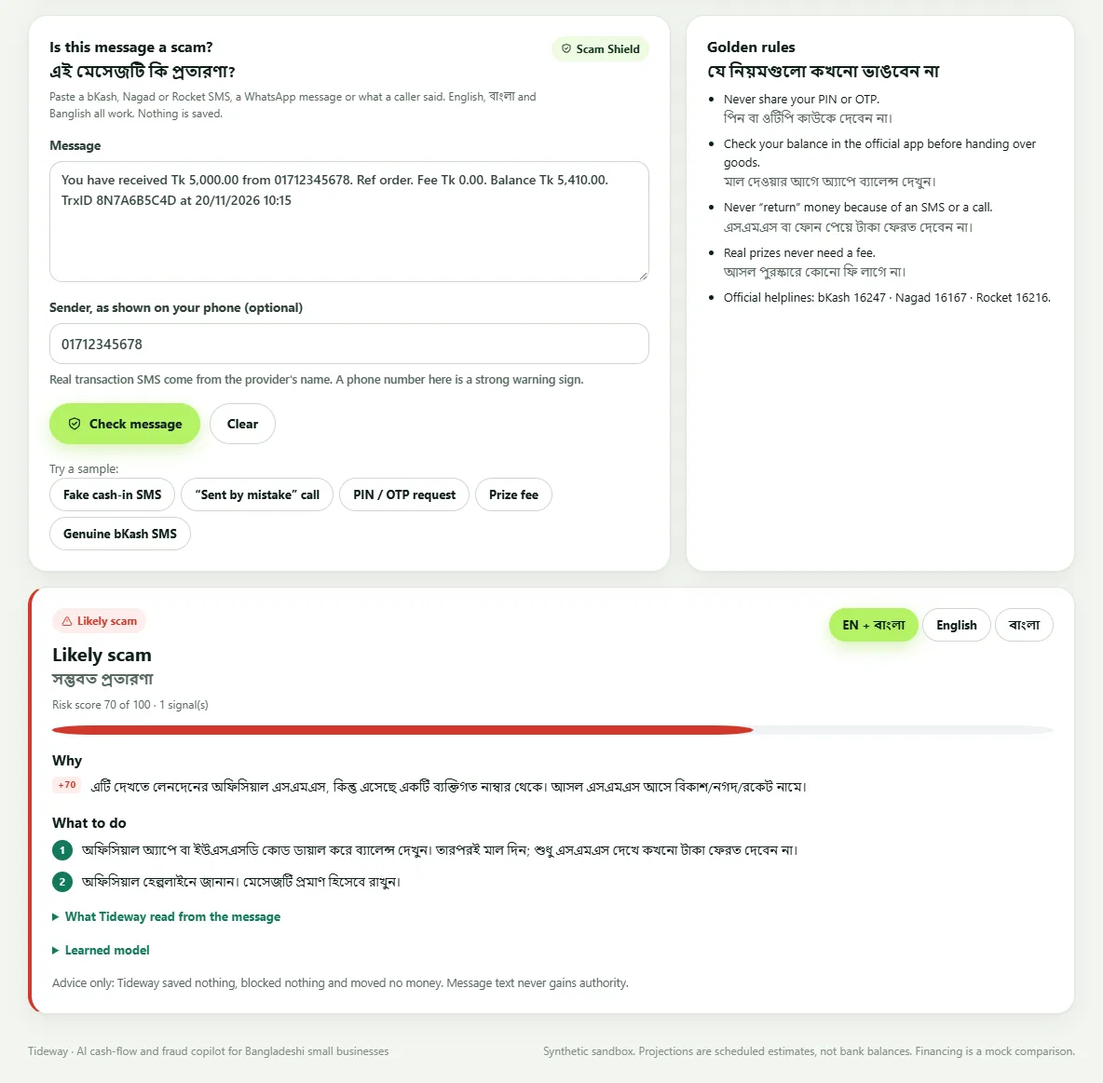
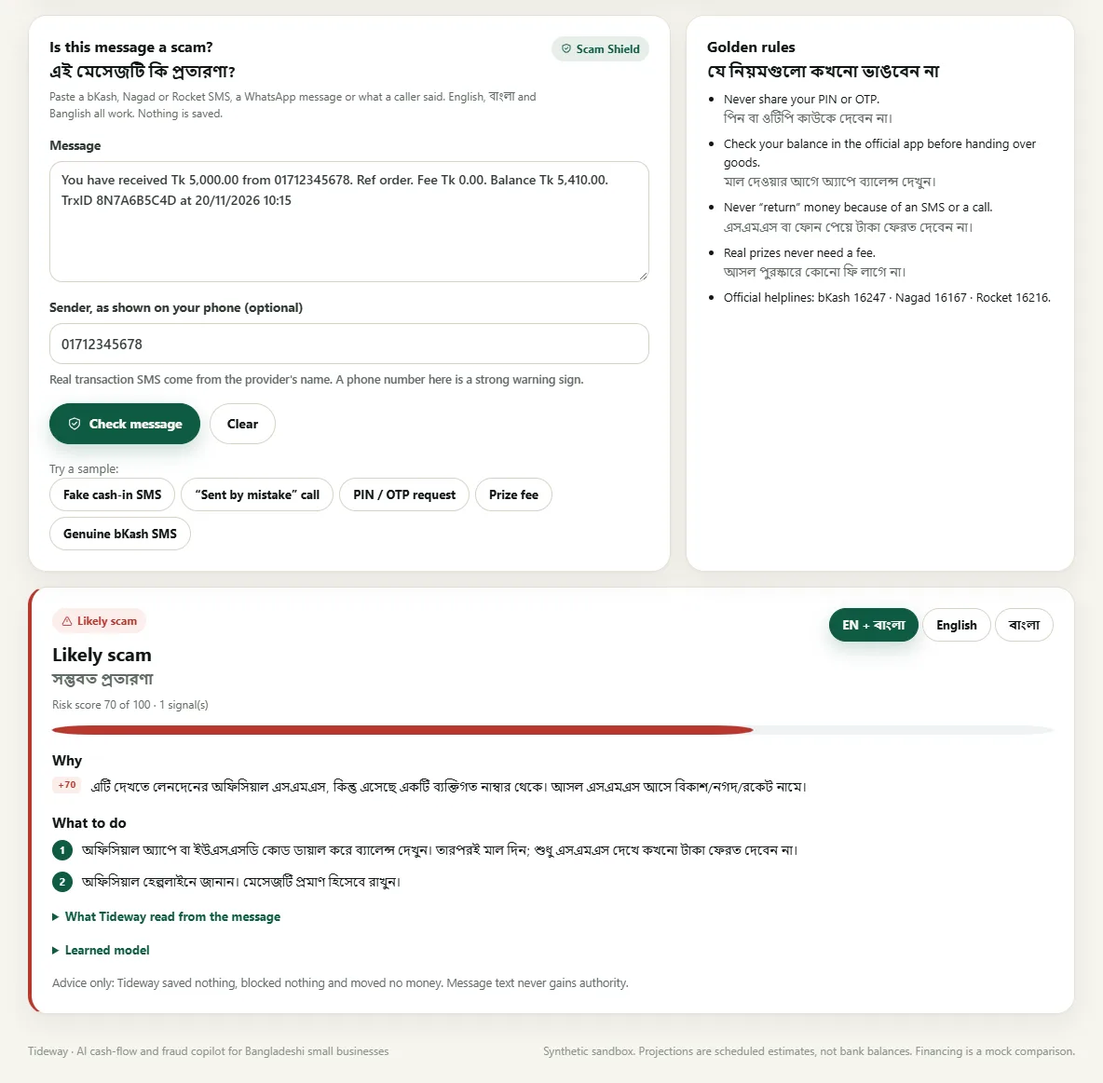
Premium "Emerald & Champagne" palette
Obsidian-emerald base, champagne-gold accents used sparingly, emerald
primary buttons on light pages and gold buttons on dark panels, warm
ivory canvas, muted status colours (all text pairs WCAG AA), refined
sidebar and tab bar, hero illustration background recoloured to match,
and refreshed README screenshots.

diff --git a/web/styles.css b/web/styles.css
@@ -543,8 +543,8 @@ li + li { margin-top: 4px; }
   --radius: 20px;
   --shadow: 0 1px 2px rgba(10, 32, 22, .05), 0 8px 24px rgba(10, 32, 22, .06);
   --shadow-lift: 0 2px 6px rgba(10, 32, 22, .08), 0 18px 40px rgba(10, 32, 22, .12);
-  --glow: 0 0 0 1px rgba(180, 242, 100, .35), 0 12px 40px rgba(180, 242, 100, .25);
-  --aurora: radial-gradient(60% 80% at 12% 0%, rgba(180, 242, 100, .30) 0%, transparent 60%),
+  --glow: 0 0 0 1px rgba(217, 188, 130, .35), 0 12px 40px rgba(217, 188, 130, .25);
+  --aurora: radial-gradient(60% 80% at 12% 0%, rgba(217, 188, 130, .30) 0%, transparent 60%),
             radial-gradient(50% 70% at 88% 10%, rgba(61, 214, 163, .28) 0%, transparent 62%),
             radial-gradient(70% 60% at 50% 120%, rgba(19, 121, 91, .45) 0%, transparent 70%),
             linear-gradient(160deg, #0a2016 0%, #06140d 100%);
@@ -569,7 +569,7 @@ h1 { font-size: 26px; }
 h2 { font-size: 20px; }
 h3 { font-size: 16px; font-weight: 650; }
 code, pre, .mono { font-family: var(--mono); }
-:focus-visible { outline: 3px solid #7cc93a; outline-offset: 2px; }
+:focus-visible { outline: 3px solid #c9a45f; outline-offset: 2px; }
 .eyebrow { color: var(--muted); font-size: 11px; font-weight: 700; letter-spacing: .9px; text-transform: uppercase; }
 .text-link, details summary { color: var(--teal); }
 details summary { font-size: 13px; }
@@ -582,8 +582,8 @@ details summary { font-size: 13px; }
 .button { min-height: 44px; padding: 10px 18px; border: 1px solid transparent; border-radius: 999px; font-size: 14px; font-weight: 700;
   transition: background-color var(--dur-2), border-color var(--dur-2), box-shadow var(--dur-2), translate var(--dur-1) var(--ease-out), color var(--dur-2); }
 .button:active:not(:disabled) { translate: 0 1px; }
-.button.primary { color: var(--forest-900); background: var(--lime); border-color: var(--lime); box-shadow: 0 6px 18px rgba(143, 214, 58, .35); }
-.button.primary:hover:not(:disabled) { background: var(--lime-2); border-color: var(--lime-2); box-shadow: 0 8px 24px rgba(143, 214, 58, .45); translate: 0 -1px; }
+.button.primary { color: var(--forest-900); background: var(--lime); border-color: var(--lime); box-shadow: 0 6px 18px rgba(14, 90, 67, .35); }
+.button.primary:hover:not(:disabled) { background: var(--lime-2); border-color: var(--lime-2); box-shadow: 0 8px 24px rgba(14, 90, 67, .45); translate: 0 -1px; }
 .button.teal { color: #fff; background: var(--forest-800); border-color: var(--forest-800); }
 .button.teal:hover:not(:disabled) { background: var(--forest-700); }
 .button.danger { color: #fff; background: var(--storm); border-color: var(--storm); }
@@ -600,17 +600,17 @@ details summary { font-size: 13px; }
   min-height: 44px; border: 1px solid var(--line-2); border-radius: 14px; background: #fff; font-size: 15px; transition: border-color var(--dur-2), box-shadow var(--dur-2); }
 .field textarea { font-family: var(--body); font-size: 14px; min-height: 130px; }
 .field input:focus, .field select:focus, .field textarea:focus, .control-field input:focus, .control-field select:focus, .search:focus, .chat-form input:focus {
-  outline: none; border-color: var(--forest-700); box-shadow: 0 0 0 4px rgba(180, 242, 100, .35); }
+  outline: none; border-color: var(--forest-700); box-shadow: 0 0 0 4px rgba(217, 188, 130, .35); }
 .field [aria-invalid="true"] { border-color: var(--storm); }
 .control-field { color: var(--muted); font-size: 11px; letter-spacing: .4px; }
 
 /* shell: deep forest sidebar with an aurora glow, light workspace for reading numbers */
 .shell { background: linear-gradient(90deg, var(--forest-950) 0 256px, var(--canvas) 256px); }
-.shell > main { min-height: 100vh; background: radial-gradient(70% 40% at 100% 0%, rgba(180, 242, 100, .12), transparent 70%), var(--canvas); }
-.sidebar { width: 256px; padding: 20px 14px 16px; color: #cfe3d6; background: radial-gradient(90% 40% at 0% 0%, rgba(180, 242, 100, .16), transparent 70%), radial-gradient(80% 30% at 100% 100%, rgba(61, 214, 163, .14), transparent 70%), var(--forest-950); }
+.shell > main { min-height: 100vh; background: radial-gradient(70% 40% at 100% 0%, rgba(217, 188, 130, .12), transparent 70%), var(--canvas); }
+.sidebar { width: 256px; padding: 20px 14px 16px; color: #cfe3d6; background: radial-gradient(90% 40% at 0% 0%, rgba(217, 188, 130, .16), transparent 70%), radial-gradient(80% 30% at 100% 100%, rgba(61, 214, 163, .14), transparent 70%), var(--forest-950); }
 main { margin-left: 256px; }
 .brand { font-family: var(--display); font-size: 21px; font-weight: 700; margin: 2px 8px 18px; }
-.brand-mark { color: var(--forest-900); background: var(--grad); border-radius: 12px; box-shadow: 0 6px 18px rgba(180, 242, 100, .35); }
+.brand-mark { color: var(--forest-900); background: var(--grad); border-radius: 12px; box-shadow: 0 6px 18px rgba(217, 188, 130, .35); }
 .business-picker { color: #93b09f; font-size: 11px; letter-spacing: .6px; }
 .business-picker select { height: 44px; border: 1px solid rgba(255, 255, 255, .14); border-radius: 14px; background: rgba(255, 255, 255, .06); font-size: 14px; }
 nav { gap: 2px; }
@@ -620,7 +620,7 @@ nav { gap: 2px; }
 .nav-item .nav-text { display: grid; line-height: 1.25; }
 .nav-item .nav-sub { color: #86a594; font-size: 11.5px; font-weight: 500; }
 .nav-item:hover { color: #fff; background: rgba(255, 255, 255, .06); }
-.nav-item.active { color: var(--forest-900); background: var(--lime); box-shadow: 0 8px 22px rgba(180, 242, 100, .25); }
+.nav-item.active { color: var(--forest-900); background: var(--lime); box-shadow: 0 8px 22px rgba(217, 188, 130, .25); }
 .nav-item.active .nav-sub { color: var(--forest-700); }
 .nav-badge { color: var(--forest-900); background: var(--lime); }
 .nav-item.active .nav-badge { color: var(--lime); background: var(--forest-900); }
@@ -631,14 +631,14 @@ nav { gap: 2px; }
 .nav-more[open] > summary::after { content: "–"; }
 .nav-more > summary:hover { color: #fff; background: rgba(255, 255, 255, .06); }
 .agent-state, .operator-card { border: 1px solid rgba(255, 255, 255, .1); border-radius: 14px; background: rgba(255, 255, 255, .05); }
-.agent-state .dot { background: var(--lime); box-shadow: 0 0 0 4px rgba(180, 242, 100, .2); }
+.agent-state .dot { background: var(--lime); box-shadow: 0 0 0 4px rgba(217, 188, 130, .2); }
 .operator-card .avatar { color: var(--forest-900); background: var(--lime); }
 .operator-card .icon-button { border-color: rgba(255, 255, 255, .2); color: #d7e8dd; background: transparent; }
 .sandbox-note { color: #7e9a8a; font-size: 11px; }
 .topbar { margin: 0; padding: 16px 30px; border: 0; border-bottom: 1px solid var(--line); border-radius: 0; background: rgba(255, 255, 255, .82); backdrop-filter: saturate(1.4) blur(12px); position: sticky; top: 0; z-index: 5; }
 .title-block h1 { font-size: 24px; }
 .title-block .eyebrow { font-family: var(--body); font-size: 12.5px; font-weight: 600; letter-spacing: 0; text-transform: none; color: var(--muted); }
-.lang-toggle { min-width: 96px; color: var(--forest-900) !important; background: var(--lime-soft) !important; border-color: #cfe9a9 !important; }
+.lang-toggle { min-width: 96px; color: var(--forest-900) !important; background: var(--lime-soft) !important; border-color: #e7dcc0 !important; }
 .view { padding: 24px 30px 12px; }
 .footer { color: var(--faint); font-size: 12px; }
 .error-banner { border-radius: 14px; }
@@ -647,7 +647,7 @@ nav { gap: 2px; }
 .card, .metric, .bundle, .switch-card, .quick-start { border: 1px solid var(--line); border-radius: var(--radius); box-shadow: var(--shadow); }
 .card, .metric, .bundle, .quick-start { background: #fff; }
 .card { padding: 22px; }
-.bundle.recommended { border-color: #a9dc72; box-shadow: 0 0 0 3px rgba(180, 242, 100, .35), var(--shadow); }
+.bundle.recommended { border-color: #d9c494; box-shadow: 0 0 0 3px rgba(217, 188, 130, .35), var(--shadow); }
 .bundle-head { border-bottom: 1px solid var(--line); }
 .kv div, .compare div, .status-strip, .scorecard div, .onboard-steps li, .approve-summary .line { background: #f5f8f2; }
 .action-card, .draft, .result-card, .member-list li { border: 1px solid var(--line); border-radius: 16px; }
@@ -663,7 +663,7 @@ td { font-size: 14px; }
 tbody tr { transition: background-color var(--dur-2); }
 tbody tr:hover td { background: #f6faf1; }
 .quick-start-steps li { border: 1px solid var(--line); border-radius: 16px; }
-.quick-start-steps li.current { border-color: #a9dc72; background: var(--lime-soft); }
+.quick-start-steps li.current { border-color: #d9c494; background: var(--lime-soft); }
 .quick-start-number { color: var(--forest-900); background: var(--lime); }
 .switch-card { background: var(--clear-soft); }
 .switch-card.paused { background: var(--storm-soft); }
@@ -687,7 +687,7 @@ tbody tr:hover td { background: #f6faf1; }
 .chat-log .agent { background: #fff; border: 1px solid var(--line); box-shadow: var(--shadow); border-bottom-left-radius: 6px; }
 .chat-log .user { color: #fff; background: var(--forest-800); border-bottom-right-radius: 6px; }
 .chip { min-height: 36px; border: 1px solid var(--line-2); border-radius: 999px; background: #fff; font-weight: 600; transition: background-color var(--dur-2), border-color var(--dur-2); }
-.chip:hover { color: var(--forest-900); background: var(--lime-soft); border-color: #a9dc72; }
+.chip:hover { color: var(--forest-900); background: var(--lime-soft); border-color: #d9c494; }
 .slider-row input[type="range"] { accent-color: var(--teal); }
 
 /* dialogs and toast */
@@ -762,7 +762,7 @@ main.view-enter .chart .fan { animation: tw-fade .6s var(--ease-out) .2s backwar
   padding: clamp(110px, 12vw, 150px) clamp(18px, 5vw, 72px) clamp(56px, 7vw, 96px); color: #fff; background: var(--aurora); background-size: 140% 140%, 140% 140%, 140% 140%, 100% 100%; animation: tw-aurora 18s ease-in-out infinite; }
 .hero::after { content: ""; position: absolute; inset: 0; pointer-events: none; background-image: linear-gradient(rgba(255, 255, 255, .045) 1px, transparent 1px), linear-gradient(90deg, rgba(255, 255, 255, .045) 1px, transparent 1px); background-size: 56px 56px; mask-image: radial-gradient(70% 70% at 50% 40%, #000 30%, transparent 80%); }
 .hero > * { position: relative; z-index: 1; }
-.hero .eyebrow.light { display: inline-flex; align-items: center; gap: 8px; margin-bottom: 20px; padding: 7px 14px; border: 1px solid rgba(180, 242, 100, .4); border-radius: 999px; color: var(--lime); background: rgba(180, 242, 100, .08); font-size: 12.5px; letter-spacing: .3px; text-transform: none; }
+.hero .eyebrow.light { display: inline-flex; align-items: center; gap: 8px; margin-bottom: 20px; padding: 7px 14px; border: 1px solid rgba(217, 188, 130, .4); border-radius: 999px; color: var(--lime); background: rgba(217, 188, 130, .08); font-size: 12.5px; letter-spacing: .3px; text-transform: none; }
 .hero h1 { max-width: 14ch; color: #fff; font-family: var(--hero-display); font-size: clamp(38px, 5.4vw, 74px); font-weight: 800; letter-spacing: -.035em; line-height: 1.02; }
 .sticker { display: inline-block; color: transparent; background: var(--grad); -webkit-background-clip: text; background-clip: text; }
 .hero-sub { max-width: 46ch; margin-top: 22px; color: rgba(236, 248, 240, .82); font-size: clamp(16px, 1.4vw, 19px); }
@@ -771,7 +771,7 @@ main.view-enter .chart .fan { animation: tw-fade .6s var(--ease-out) .2s backwar
 .hero-ctas .button.light { color: #fff; background: rgba(255, 255, 255, .08); border-color: rgba(255, 255, 255, .3); }
 .hero-ctas .button.light:hover:not(:disabled) { background: rgba(255, 255, 255, .16); border-color: rgba(255, 255, 255, .5); }
 .hero-art { position: relative; margin: 0; }
-.hero-art::before { content: ""; position: absolute; inset: 8% 6%; border-radius: 50%; background: radial-gradient(circle, rgba(180, 242, 100, .45), transparent 65%); filter: blur(30px); }
+.hero-art::before { content: ""; position: absolute; inset: 8% 6%; border-radius: 50%; background: radial-gradient(circle, rgba(217, 188, 130, .45), transparent 65%); filter: blur(30px); }
 .hero-art img { position: relative; display: block; width: 100%; height: auto; border: 1px solid rgba(255, 255, 255, .18); border-radius: 32px; background: rgba(255, 255, 255, .06); box-shadow: 0 40px 90px rgba(0, 0, 0, .45); animation: tw-float 8s ease-in-out infinite; }
 .landing .hero-copy > * { animation: tw-rise .8s var(--ease-out) both; }
 .landing .hero-copy > :nth-child(2) { animation-delay: 80ms; }
@@ -790,7 +790,7 @@ main.view-enter .chart .fan { animation: tw-fade .6s var(--ease-out) .2s backwar
 .demo-intro p { margin-top: 10px; color: rgba(236, 248, 240, .82); }
 .demo-intro .tag-note { color: rgba(236, 248, 240, .82); }
 .demo-account { min-height: 64px; border: 1px solid rgba(255, 255, 255, .16); border-radius: 18px; color: #fff; background: rgba(255, 255, 255, .07); backdrop-filter: blur(6px); transition: translate var(--dur-1) var(--ease-out), background-color var(--dur-2), border-color var(--dur-2); }
-.demo-account:hover { translate: 0 -2px; border-color: var(--lime); background: rgba(180, 242, 100, .12); }
+.demo-account:hover { translate: 0 -2px; border-color: var(--lime); background: rgba(217, 188, 130, .12); }
 .demo-account .icon { color: var(--lime); }
 .demo-account strong { color: #fff; font-size: 15px; }
 .demo-card .form-error { color: #ffb4a8; }
@@ -803,7 +803,7 @@ main.view-enter .chart .fan { animation: tw-fade .6s var(--ease-out) .2s backwar
 .value-card:nth-child(1) { color: #fff; border: 0; background: var(--aurora); }
 .value-card:nth-child(1) p { color: rgba(236, 248, 240, .84); }
 .value-card:nth-child(1) .value-icon { color: var(--forest-900); background: var(--lime); }
-.value-card:nth-child(2) { border-color: #cfe9a9; background: linear-gradient(140deg, var(--lime-soft), #fff 70%); }
+.value-card:nth-child(2) { border-color: #e7dcc0; background: linear-gradient(140deg, var(--lime-soft), #fff 70%); }
 .value-card h3 { margin-top: 14px; font-family: var(--display); font-size: 20px; font-weight: 700; letter-spacing: -.01em; }
 .value-card p { margin-top: 8px; color: var(--ink-2); }
 .value-icon { display: grid; width: 50px; height: 50px; place-items: center; border-radius: 16px; color: var(--forest-800); background: var(--lime-soft); }
@@ -818,7 +818,7 @@ main.view-enter .chart .fan { animation: tw-fade .6s var(--ease-out) .2s backwar
 .plan-card h3 { font-family: var(--display); font-size: 19px; }
 .plan-price strong { font-family: var(--display); font-size: 30px; }
 .plan-option { border: 1px solid var(--line-2); border-radius: 14px; transition: border-color var(--dur-2), background-color var(--dur-2); }
-.plan-option:has(input:checked) { border-color: #a9dc72; background: var(--lime-soft); }
+.plan-option:has(input:checked) { border-color: #d9c494; background: var(--lime-soft); }
 .auth-card { border-radius: 26px; }
 .auth-card h2 { font-size: 23px; }
 .land-foot { margin-top: 64px; padding: 26px clamp(18px, 5vw, 72px); border: 0; color: rgba(236, 248, 240, .75); background: var(--forest-950); }
@@ -1118,7 +1118,7 @@ ol.shield-list li::before { counter-increment: step; content: counter(step); dis
 .home-hero h2 { margin-top: 10px; color: #fff; font-size: clamp(23px, 2.6vw, 32px); letter-spacing: -.025em; }
 .home-hero p { color: rgba(236, 248, 240, .86); font-size: 16px; }
 .home-hero .hint { color: rgba(236, 248, 240, .7); }
-.home-hero-icon { width: 64px; height: 64px; border-radius: 20px; color: var(--forest-900); background: var(--lime); box-shadow: 0 10px 30px rgba(180, 242, 100, .35); }
+.home-hero-icon { width: 64px; height: 64px; border-radius: 20px; color: var(--forest-900); background: var(--lime); box-shadow: 0 10px 30px rgba(217, 188, 130, .35); }
 .home-hero.storm .home-hero-icon { color: #fff; background: #e5484d; box-shadow: 0 10px 30px rgba(229, 72, 77, .45); }
 .home-hero.unsettled .home-hero-icon { color: #1d1200; background: #f6b347; box-shadow: 0 10px 30px rgba(246, 179, 71, .4); }
 .home-hero.clear .home-hero-icon { color: var(--forest-900); background: var(--lime); }
@@ -1127,7 +1127,7 @@ ol.shield-list li::before { counter-increment: step; content: counter(step); dis
 .home-status::before { content: ""; width: 7px; height: 7px; border-radius: 50%; background: currentColor; box-shadow: 0 0 0 4px color-mix(in srgb, currentColor 25%, transparent); }
 .home-status.storm { color: #ffb3ad; background: rgba(229, 72, 77, .18); }
 .home-status.unsettled { color: #ffd38c; background: rgba(246, 179, 71, .18); }
-.home-status.clear { color: var(--lime); background: rgba(180, 242, 100, .14); }
+.home-status.clear { color: var(--lime); background: rgba(217, 188, 130, .14); }
 .home-status.info { color: #9fd3f2; background: rgba(59, 143, 196, .2); }
 .home-hero .button.ghost { color: #fff; background: rgba(255, 255, 255, .08); border-color: rgba(255, 255, 255, .28); }
 .home-hero .button.ghost:hover:not(:disabled) { background: rgba(255, 255, 255, .16); border-color: rgba(255, 255, 255, .5); }
@@ -1143,7 +1143,7 @@ ol.shield-list li::before { counter-increment: step; content: counter(step); dis
 .home-tile.good .value { color: var(--clear); }
 .home-section-title { font-family: var(--display); font-size: 20px; letter-spacing: -.01em; }
 .home-task { border-radius: 24px; padding: 20px; }
-.home-task:hover { border-color: #a9dc72; box-shadow: var(--shadow-lift); }
+.home-task:hover { border-color: #d9c494; box-shadow: var(--shadow-lift); }
 .home-task-icon { width: 48px; height: 48px; border-radius: 16px; color: var(--forest-800); background: var(--lime-soft); }
 .home-task-go { color: var(--forest-700); }
 .home-task:first-child { color: #fff; border: 0; background: var(--aurora); }
@@ -1161,7 +1161,7 @@ ol.shield-list li::before { counter-increment: step; content: counter(step); dis
 .home-payday { stroke: var(--forest-900); }
 .home-amount { font-size: 18px; }
 .home-watch { border-left: 0; background: linear-gradient(120deg, var(--storm-soft), #fff 60%); border: 1px solid #f3cbc6; }
-.rescue-summary { position: relative; overflow: hidden; border: 1px solid #cfe9a9; border-left: 1px solid #cfe9a9; border-radius: 26px; background: linear-gradient(140deg, var(--lime-soft), #fff 55%); }
+.rescue-summary { position: relative; overflow: hidden; border: 1px solid #e7dcc0; border-left: 1px solid #e7dcc0; border-radius: 26px; background: linear-gradient(140deg, var(--lime-soft), #fff 55%); }
 .rescue-summary.storm { border-color: #f3cbc6; background: linear-gradient(140deg, var(--storm-soft), #fff 60%); }
 .rescue-summary h2 { font-size: 23px; letter-spacing: -.02em; }
 .rescue-steps li { background: #fff; border: 1px solid var(--line); border-radius: 16px; }
@@ -1189,3 +1189,144 @@ ol.shield-list li::before { counter-increment: step; content: counter(step); dis
   .toast { bottom: 96px; }
 }
 #page-title:focus { outline: none; }
+
+/* ==========================================================================
+   Premium palette: "Emerald & Champagne".
+   Obsidian-emerald base, champagne gold used sparingly (about 10%) for
+   highlights, deep emerald primary on light surfaces, warm ivory canvas.
+   All text pairs meet WCAG AA (checked: 5.3:1 to 16.6:1).
+   ========================================================================== */
+:root {
+  --forest-950: #07110d;
+  --forest-900: #0b1c16;
+  --forest-850: #0f2620;
+  --forest-800: #14322a;
+  --forest-700: #1e4a3c;
+  --emerald: #0e5a43;
+  --emerald-2: #0b4b37;
+  --lime: #d9bc82;           /* champagne gold, kept under the old token name so every accent follows */
+  --lime-2: #cba968;
+  --lime-3: #b8924f;
+  --lime-soft: #f4eedf;
+  --gold-ink: #7a5f2b;
+  --mint: #4fa585;
+  --ink: #0f1714;
+  --ink-2: #2e3a34;
+  --muted: #5f6b64;
+  --faint: #8a948e;
+  --teal: #0e5a43;
+  --teal-2: #0b4b37;
+  --teal-soft: #e6efe9;
+  --canvas: #f6f4ee;
+  --line: #e7e2d6;
+  --line-2: #d9d2c2;
+  --edge: #d9d2c2;
+  --storm: #b8382e;
+  --storm-soft: #fbeeec;
+  --unsettled: #9a5b0c;
+  --unsettled-soft: #fbf1e1;
+  --clear: #1f7a4d;
+  --clear-soft: #e7f3ec;
+  --blue: #2c5f7f;
+  --blue-soft: #e8f0f4;
+  --shadow: 0 1px 2px rgba(15, 23, 20, .04), 0 10px 28px rgba(15, 23, 20, .06);
+  --shadow-lift: 0 2px 6px rgba(15, 23, 20, .07), 0 22px 48px rgba(15, 23, 20, .12);
+  --aurora: radial-gradient(55% 70% at 8% 0%, rgba(217, 188, 130, .20) 0%, transparent 62%),
+            radial-gradient(50% 70% at 92% 8%, rgba(30, 122, 90, .34) 0%, transparent 64%),
+            radial-gradient(70% 60% at 50% 120%, rgba(14, 90, 67, .45) 0%, transparent 70%),
+            linear-gradient(165deg, #0f2620 0%, #07110d 100%);
+  --grad: linear-gradient(135deg, #ecd8aa 0%, #c9a45f 100%);
+  --hero-display: "Space Grotesk", "Segoe UI", system-ui, sans-serif;
+}
+::selection { color: #fff; background: var(--emerald); }
+:focus-visible { outline-color: #c9a45f; }
+
+/* Buttons: emerald on light surfaces, champagne on dark panels */
+.button.primary { color: #fbf8f1; background: var(--emerald); border-color: var(--emerald); box-shadow: 0 8px 20px rgba(14, 90, 67, .22); }
+.button.primary:hover:not(:disabled) { color: #fff; background: var(--emerald-2); border-color: var(--emerald-2); box-shadow: 0 10px 24px rgba(14, 90, 67, .3); }
+:is(.hero, .demo-card, .home-hero, .brief, .value-card:nth-child(1), .home-task:first-child, .plan-card:nth-child(2)) .button.primary,
+.land-top .button.primary {
+  color: var(--forest-900); background: var(--grad); border-color: transparent; box-shadow: 0 10px 28px rgba(217, 188, 130, .28); }
+:is(.hero, .demo-card, .home-hero, .brief) .button.primary:hover:not(:disabled), .land-top .button.primary:hover:not(:disabled) {
+  color: var(--forest-900); background: linear-gradient(135deg, #f2e2bd 0%, #d3b06c 100%); box-shadow: 0 12px 32px rgba(217, 188, 130, .38); }
+.button.ghost:hover:not(:disabled), .button.light:hover:not(:disabled) { border-color: var(--gold-ink); background: var(--lime-soft); }
+.lang-toggle { color: var(--gold-ink) !important; background: var(--lime-soft) !important; border-color: #e3d3ae !important; }
+
+/* Sidebar: obsidian with a single gold rule for the active page */
+.shell { background: linear-gradient(90deg, var(--forest-950) 0 256px, var(--canvas) 256px); }
+.shell > main { background: radial-gradient(60% 35% at 100% 0%, rgba(217, 188, 130, .10), transparent 70%), var(--canvas); }
+.sidebar { color: #d7e2db; background: radial-gradient(90% 35% at 0% 0%, rgba(217, 188, 130, .10), transparent 70%), radial-gradient(80% 30% at 100% 100%, rgba(30, 122, 90, .16), transparent 70%), var(--forest-950); border-right: 1px solid rgba(217, 188, 130, .10); }
+.brand-mark { color: var(--forest-900); background: var(--grad); box-shadow: 0 6px 18px rgba(217, 188, 130, .25); }
+.nav-item { color: #c9d6ce; }
+.nav-item .nav-sub { color: #93a89c; }
+.nav-item:hover { color: #fff; background: rgba(255, 255, 255, .05); }
+.nav-item.active { color: #f6ecd3; background: linear-gradient(90deg, rgba(217, 188, 130, .16), rgba(217, 188, 130, .04)); box-shadow: inset 3px 0 0 var(--lime); }
+.nav-item.active .icon { color: var(--lime); }
+.nav-item.active .nav-sub { color: #cdb98d; }
+.nav-badge, .nav-item.active .nav-badge { color: var(--forest-900); background: var(--lime); }
+.nav-group-label { color: #8a9e93; }
+.nav-more > summary { color: #a9bbb0; }
+.agent-state .dot { background: #6fcf97; box-shadow: 0 0 0 4px rgba(111, 207, 151, .18); }
+.operator-card .avatar { color: var(--forest-900); background: var(--grad); }
+
+/* Phone tab bar */
+@media (max-width: 860px) {
+  .tabbar { background: rgba(7, 17, 13, .94); border-color: rgba(217, 188, 130, .14); }
+  .tab-item { color: #c9d6ce; }
+  .tab-item .tab-sub { color: #93a89c; }
+  .tab-item.active, body.menu-open .tab-item[data-action="menu"] { color: #f6ecd3; background: rgba(217, 188, 130, .16); box-shadow: inset 0 0 0 1px rgba(217, 188, 130, .35); }
+  .tab-item.active .icon { color: var(--lime); }
+  .tab-item.active .tab-sub, body.menu-open .tab-item[data-action="menu"] .tab-sub { color: #cdb98d; }
+}
+
+/* Landing */
+.hero h1 { font-weight: 700; letter-spacing: -.045em; }
+.sticker { background: var(--grad); -webkit-background-clip: text; background-clip: text; }
+.hero .eyebrow.light { color: #ecd8aa; border-color: rgba(217, 188, 130, .35); background: rgba(217, 188, 130, .07); }
+.hero-art::before { background: radial-gradient(circle, rgba(217, 188, 130, .30), transparent 65%); }
+.marquee { color: #ecd8aa; background: var(--forest-950); border-block: 1px solid rgba(217, 188, 130, .22); }
+.marquee span::after { content: "\25C6" / ""; color: var(--lime-3); font-size: 10px; }
+.land-nav a:not(.button):hover { color: #ecd8aa; }
+.demo-account:hover { border-color: rgba(217, 188, 130, .6); background: rgba(217, 188, 130, .08); }
+.demo-account .icon { color: var(--lime); }
+.value-card:nth-child(1) .value-icon { color: var(--forest-900); background: var(--grad); }
+.value-card:nth-child(2) { border-color: #e7dcc0; background: linear-gradient(140deg, var(--lime-soft), #fff 70%); }
+.value-icon { color: var(--emerald); background: var(--teal-soft); }
+.step-no { color: #fbf8f1; background: var(--emerald); }
+.plan-card:nth-child(2) .plan-price strong, .plan-card:nth-child(2) h3 { color: #ecd8aa; }
+.plan-option:has(input:checked) { border-color: var(--emerald); background: var(--teal-soft); }
+.land-foot { color: rgba(236, 228, 210, .7); }
+
+/* App surfaces */
+.pill.teal { color: var(--emerald); background: var(--teal-soft); }
+.quick-start-number, .rescue-steps li::before { color: #fbf8f1; background: var(--emerald); }
+.quick-start-steps li.current { border-color: #d9c494; background: var(--lime-soft); }
+.bundle.recommended { border-color: #d9c494; box-shadow: 0 0 0 3px rgba(217, 188, 130, .28), var(--shadow); }
+.chat-log .user { background: var(--emerald); }
+.chip:hover { color: var(--ink); background: var(--lime-soft); border-color: #d9c494; }
+.weather-badge, .brief.clear .weather-badge { color: var(--forest-900); background: var(--grad); }
+.receipt { background: linear-gradient(180deg, var(--lime-soft), #fff); }
+.toast { border-left-color: var(--lime); }
+body.busy::after { background: var(--grad); }
+
+/* Home */
+.home-hero-icon, .home-hero.clear .home-hero-icon { color: var(--forest-900); background: var(--grad); box-shadow: 0 10px 30px rgba(217, 188, 130, .28); }
+.home-hero.storm .home-hero-icon { color: #fff; background: linear-gradient(135deg, #d9574c, #b8382e); box-shadow: 0 10px 30px rgba(184, 56, 46, .4); }
+.home-hero.unsettled .home-hero-icon { color: #241500; background: linear-gradient(135deg, #f0c26b, #d39a32); box-shadow: 0 10px 30px rgba(211, 154, 50, .35); }
+.home-status.clear { color: #ecd8aa; background: rgba(217, 188, 130, .14); }
+.home-tile.good::before { background: linear-gradient(90deg, #1f7a4d, #4fa585); }
+.home-tile.warn::before { background: #d39a32; }
+.home-tile.bad::before { background: #c2453b; }
+.home-task:hover { border-color: #d9c494; }
+.home-task-icon { color: var(--emerald); background: var(--teal-soft); }
+.home-task:first-child .home-task-icon { color: var(--forest-900); background: var(--grad); }
+.home-task:first-child .home-task-go { color: #ecd8aa; }
+.home-task-go { color: var(--gold-ink); }
+.home-bar.good { fill: #2f8f63; }
+.home-bar.warn { fill: #d39a32; }
+.home-bar.bad { fill: #c2453b; }
+.home-chart-legend .key.good { background: #2f8f63; }
+.home-chart-legend .key.warn { background: #d39a32; }
+.home-chart-legend .key.bad { background: #c2453b; }
+.rescue-summary { border-color: #e7dcc0; background: linear-gradient(140deg, var(--lime-soft), #fff 55%); }
+.shield-meter-fill.clear { fill: #2f8f63; }

diff --git a/docs/RELEASE_V16.md b/docs/RELEASE_V16.md
@@ -41,7 +41,7 @@ Older evidence files under `evidence/` describe v15 runs and keep their original
 - **Fix a cash gap** opens with a plain summary: each step in one sentence, total cost, whether salaries can be paid,
   who must agree, and one approve button.
 - **Phones** get an app-style bottom tab bar (Home, Fix gap, Ask, Scam check, Menu).
-- **Visual style:** deep forest green with a bright lime signature, aurora-lit hero surfaces, bento cards and flat,
+- **Visual style ("Emerald & Champagne"):** obsidian-emerald base, champagne-gold accents used sparingly, warm ivory pages, aurora-lit hero surfaces, bento cards and flat,
   high-contrast number cards; landing content no longer hides until scrolled.
 - The end-to-end browser test (`node scripts/capture_screens.mjs`) now covers Home, the Bangla switch and Scam check,
   and passes with the owner-view, decision-lab and 406-combination currency checks.
